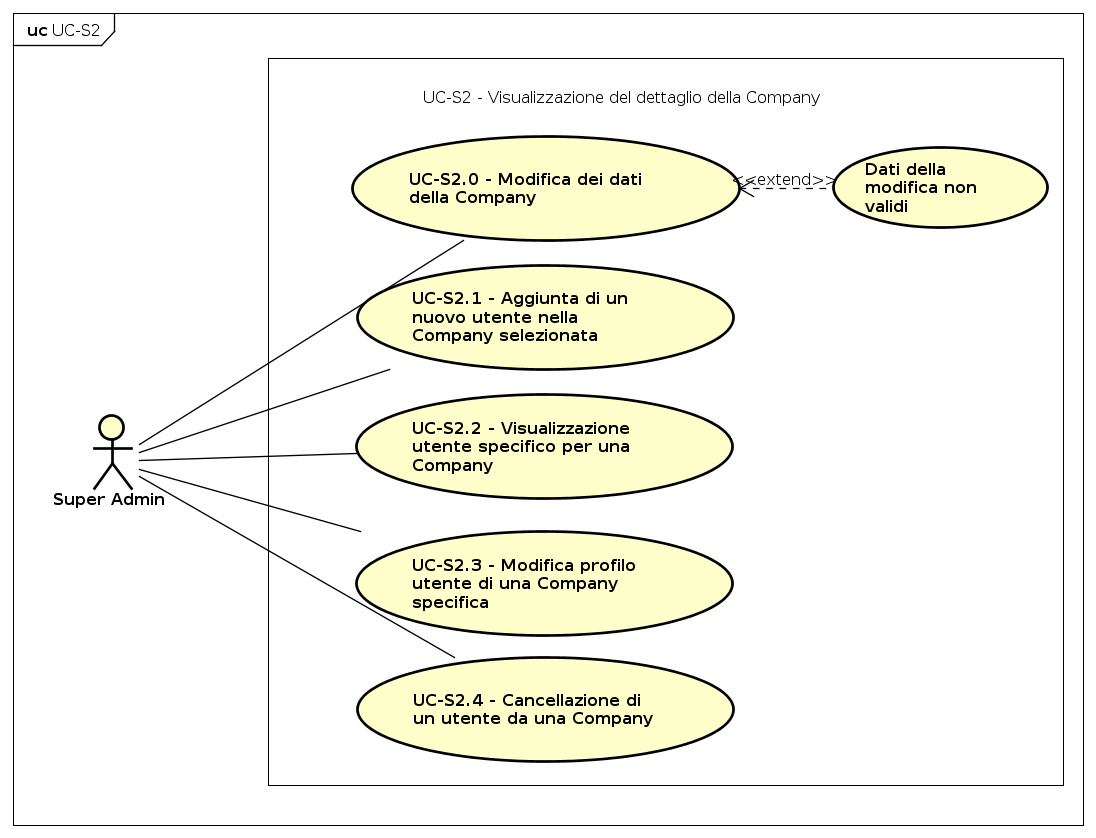
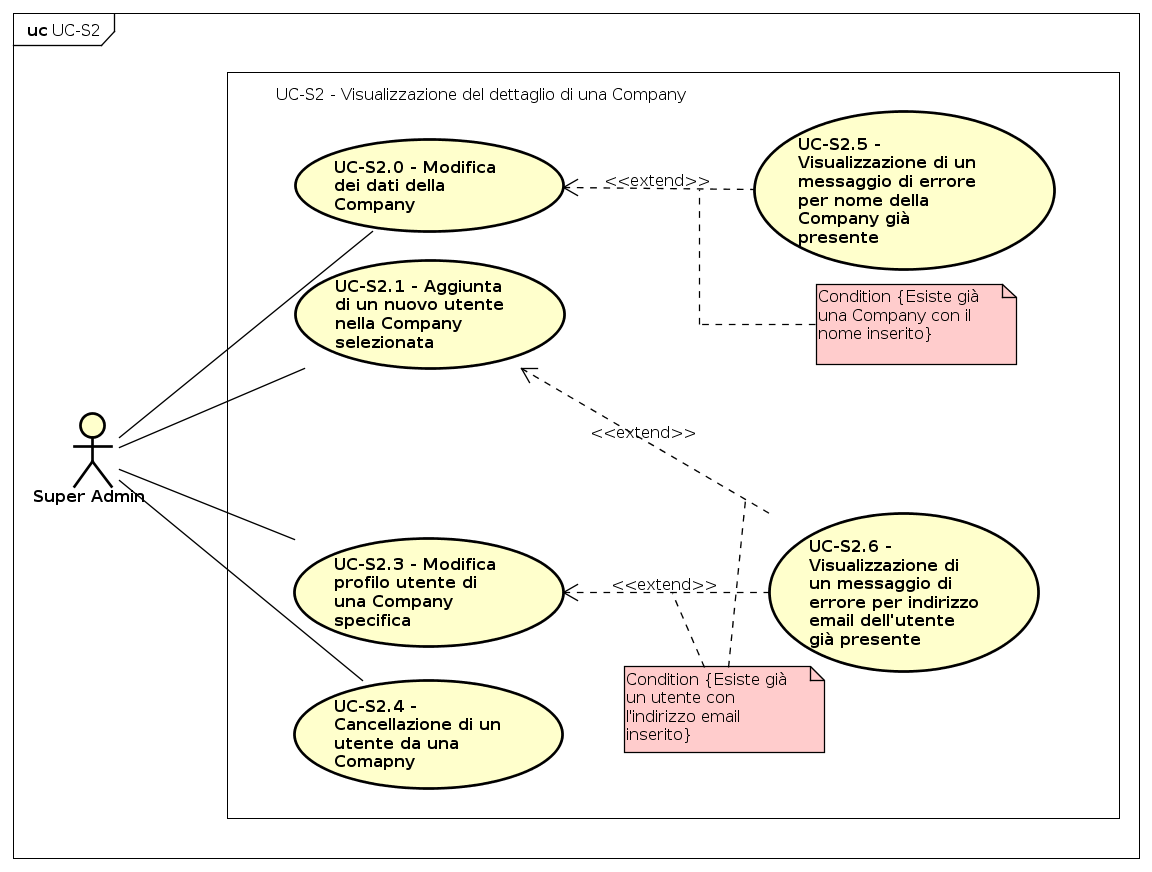
Revolution of Super Admin's UCs There was an inconsistent enumaration, duplicate UCs and logical errors in their suddivision

diff --git a/official/AnalisiDeiRequisiti/res/sections/superadmin.tex b/official/AnalisiDeiRequisiti/res/sections/superadmin.tex
@@ -14,7 +14,7 @@ Di seguito vengono elencati i \glossaryItem{casi} d'uso per il \glossaryItem{Sup
     \begin{figure}[h]
       \begin{center}
         \includegraphics[width=12cm]{res/img/UCSuperadmin/UC-S0.png}
-      \caption{UC-S0 - Gestione \glossaryItem{Company}}
+      \caption{UC-S0 - Interazione tra \glossaryItem{Super-Admin} e sistema}
       \end{center} 
     \end{figure}    
     
@@ -29,19 +29,16 @@ Di seguito vengono elencati i \glossaryItem{casi} d'uso per il \glossaryItem{Sup
         \hline
         
         \textbf{Attori Primari} & \glossaryItem{Super-Admin}.\\ 
-	\textbf{Scopo e descrizione} & Il \glossaryItem{Super-Admin} deve poter gestire le \glossaryItem{Company}.  \\ 
-        \textbf{Precondizioni}  & L'applicazione mostra al \glossaryItem{Super-Admin} la pagina di gestione delle \glossaryItem{Company}.  \\ 
+	\textbf{Scopo e descrizione} & Il \glossaryItem{Super-Admin} deve poter gestire i dati dell'applicazione MaaS.  \\ 
+        \textbf{Precondizioni}  & L'applicazione mostra al \glossaryItem{Super-Admin} la pagina di gestione di MaaS.  \\ 
         
-        \textbf{Postcondizioni} & L'applicazione ha dato la possibilità al \glossaryItem{Super-Admin} di interagire con la pagina di gestione delle \glossaryItem{Company}. \\ 
+        \textbf{Postcondizioni} & L'applicazione ha dato la possibilità al \glossaryItem{Super-Admin} di gestire MaaS. \\ 
         \textbf{Scenario principale} & 1. Il \glossaryItem{Super-Admin} pu\`o creare una nuova \glossaryItem{Company}. (UC-S1) 
         
-        2. Il \glossaryItem{Super-Admin} può visualizzare il dettaglio di una \glossaryItem{Company}. (UC-S2)
+        2. Il \glossaryItem{Super-Admin} può gestire in dettaglio una \glossaryItem{Company} esistente. (UC-S2)
         
-        3. Il \glossaryItem{Super-Admin} pu\`o modificare i dati di una \glossaryItem{Company}. (UC-S3)  \\ 
+        3. Il \glossaryItem{Super-Admin} può gestire gli altri \glossaryItem{Super-Admin} dell'applicazione. (UC-S3)  \\ 
         
-        \textbf{Estensioni} & 1. Fallisce l'inserimento di una nuova \glossaryItem{Company}. (UC-S4)
-        
-        2. Fallisce la modifica dei dati di una \glossaryItem{Company}. (UC-S5) \\
       \end{longtable}
       \egroup
     \end{center}
@@ -209,11 +206,11 @@ Di seguito vengono elencati i \glossaryItem{casi} d'uso per il \glossaryItem{Sup
 
 
 
-    \subsubsection{Visualizzazione in dettaglio di una Company}
+    \subsubsection{Gestione in dettaglio di una Company esistente}
     \begin{figure}[H]
       \begin{center}
         \includegraphics[width=12cm]{res/img/UCSuperadmin/UC-S2.png}
-      \caption{UC-S2 - Visualizzazione dettaglio di una \glossaryItem{Company}}
+      \caption{UC-S2 - Gestione in dettaglio di una \glossaryItem{Company} esistente}
       \end{center} 
     \end{figure}    
     
@@ -224,13 +221,14 @@ Di seguito vengono elencati i \glossaryItem{casi} d'uso per il \glossaryItem{Sup
       \begin{longtable}{  p{3.5cm} | p{8cm} } 
         
         \hline
-        \multicolumn{2}{ | c | }{ \cellcolor[gray]{0.9} \textbf{UC-S2 - Visualizzazione dettaglio di \glossaryItem{Company}}} \\ 
+        \multicolumn{2}{ | c | }{ \cellcolor[gray]{0.9} \textbf{UUC-S2 - Gestione in dettaglio di una \glossaryItem{Company} esistente}} \\ 
         \hline
         
         \textbf{Attori Primari} & \glossaryItem{Super-Admin}\\  
-        \textbf{Precondizioni}  & L'applicazione mette a disposizione la pagina di visualizzazione dei dettagli di una \glossaryItem{Company}.  \\ 
+        \textbf{Scopo e descrizione} & Il \glossaryItem{Super-Admin} visualizza una pagina contenente i dettagli di una Company e può apportare delle modifiche alla Company o ai suoi utenti. \\
+        \textbf{Precondizioni}  & L'applicazione mette a disposizione la pagina di gestione di una \glossaryItem{Company}.  \\ 
         
-        \textbf{Postcondizioni} & L'applicazione ha reindirizzato il \glossaryItem{Super-Admin} alla pagina di visualizzazione della \glossaryItem{Company} selezionata. \\
+        \textbf{Postcondizioni} & L'applicazione ha effettuato le operazioni richeste dal \glossaryItem{Super-Admin}. \\
         
         \textbf{Scenario principale} & 1. Il \glossaryItem{Super-Admin} può modificare i dati della \glossaryItem{Company} (UC-S2.0);  
         
@@ -238,13 +236,15 @@ Di seguito vengono elencati i \glossaryItem{casi} d'uso per il \glossaryItem{Sup
         
         3. Il \glossaryItem{Super-Admin} può visualizzare uno specifico utente della \glossaryItem{Company} (UC-S2.2); 
         
-        4. Il \glossaryItem{Super-Admin} pu\`o modificare i dati di uno specifico utente. (UC-S2.3) \\ 
+        4. Il \glossaryItem{Super-Admin} pu\`o modificare i dati di uno specifico utente. (UC-S2.3)
         
-        \textbf{Estensioni} & 1. Fallimento della modifica dei dati della \glossaryItem{Company};
+        5. Il \glossaryItem{Super-Admin} pu\`o cancellare uno specifico utente. (UC-S2.4) \\ 
         
-        2. Fallimento dell'aggiunta di un nuovo utente;
+        \textbf{Estensioni} & 1. Fallimento della modifica dei dati della \glossaryItem{Company} (UC-S2.5);
         
-        3. Fallimento modifica utente. \\
+        2. Fallimento dell'aggiunta di un nuovo utente (UC-S2.6);
+        
+        3. Fallimento modifica utente (UC-S2.6). \\
       \end{longtable}
       \egroup
     \end{center}
@@ -269,11 +269,12 @@ Di seguito vengono elencati i \glossaryItem{casi} d'uso per il \glossaryItem{Sup
         \hline
         
         \textbf{Attori Primari} & \glossaryItem{Super-Admin}.\\  
+        \textbf{Scopo e descrizione} & Il \glossaryItem{Super-Admin} visualizza una \textit{form} per la modifica dei dati di una Company. \\
         \textbf{Precondizioni}  & L'applicazione mostra il form per la modifica dei dati della \glossaryItem{Company} selezionata.  \\ 
         
         \textbf{Postcondizioni} & Il sistema ha modificato il profilo della \glossaryItem{Company} sulla base dei dati inseriti dal \glossaryItem{Super-Admin}.  \\ 
-       	 \textbf{Scenario principale} & 1. Il \glossaryItem{Super-Admin} può modificare i dati della \glossaryItem{Company}. \\
-	 \textbf{Estensioni} & 1. Fallimento della modifica.
+       	 \textbf{Scenario principale} & 1. Il \glossaryItem{Super-Admin} può modificare il nome della \glossaryItem{Company} (UC-S2.0.0). \\
+	 \textbf{Estensioni} & 1. Fallimento della modifica (UC-S2.5).
       \end{longtable}
       \egroup
     \end{center}
@@ -296,7 +297,7 @@ Di seguito vengono elencati i \glossaryItem{casi} d'uso per il \glossaryItem{Sup
 	
         \textbf{Postcondizioni} & Il sistema ha modificato il nome della \glossaryItem{Company} sulla base del nuovo nome inserito dal \glossaryItem{Super-Admin}.  \\
     	\textbf{Scenario principale} & 1. Il \glossaryItem{Super-Admin} può modificare il nome della \glossaryItem{Company}. \\
-        \textbf{Estensioni} & 1. Fallimento della modifica.
+        \textbf{Estensioni} & 1. Fallimento della modifica (UC-S2.5).
       \end{longtable}
       \egroup
     \end{center}
@@ -324,21 +325,19 @@ Di seguito vengono elencati i \glossaryItem{casi} d'uso per il \glossaryItem{Sup
         \multicolumn{2}{ | c | }{ \cellcolor[gray]{0.9} \textbf{UC-S2.1 - Aggiunta di un nuovo utente nella \glossaryItem{Company} selezionata}} \\ 
         \hline
         
-        \textbf{Attori Primari} & \glossaryItem{Super-Admin}.\\  
+        \textbf{Attori Primari} & \glossaryItem{Super-Admin}.\\ 
+      	\textbf{Scopo e descrizione}  & Il Super-Admin aggiunge un nuovo utente alla \glossaryItem{Company} selezionata.  \\ 
         \textbf{Precondizioni}  & L'applicazione mostra il form per l'aggiunta di un nuovo utente.  \\ 
         
-        \textbf{Postcondizioni} & Il sistema ha aggiunto un nuovo utente associandolo alla \glossaryItem{Company} precedentemente selezionata.  \\ 
+        \textbf{Postcondizioni} & Il sistema ha aggiunto un nuovo utente associandolo alla \glossaryItem{Company} selezionata.  \\ 
 	\textbf{Scenario principale} & 1. Il \glossaryItem{Super-Admin} può aggiungere l'email dell'utente (UC-S2.1.0);
 
         2. Il \glossaryItem{Super-Admin} può aggiungere la password dell'utente (UC-S2.1.1);
 
         3. Il \glossaryItem{Super-Admin} può selezionare il livello di permesso dell'utente (UC-S2.1.2). \\
 
-        \textbf{Estensioni} & 1. Fallimento della modifica dei dati della \glossaryItem{Company};
-
-        2. Fallimento dell'aggiunta di un nuovo utente;
-
-        3. Fallimento della modifica dell'utente. \\     	
+        \textbf{Estensioni} & 1. Fallimento dell'aggiunta di un nuovo utente (UC-S2.6).
+ 	
 
 
 	 \end{longtable}
@@ -359,6 +358,7 @@ Di seguito vengono elencati i \glossaryItem{casi} d'uso per il \glossaryItem{Sup
         \hline
 
         \textbf{Attori Primari} & \glossaryItem{Super-Admin}.\\
+        \textbf{Scopo e descrizione}  & Il Super-Admin inserisce l'indirizzo email del nuovo utente.  \\ 
         \textbf{Precondizioni}  & L'applicazione mostra il campo di testo per l'aggiunta dell'email del nuovo utente.  \\
 
         \textbf{Postcondizioni} & Il sistema ha memorizzato l'email inserita nel campo di testo.  \\
@@ -383,6 +383,7 @@ Di seguito vengono elencati i \glossaryItem{casi} d'uso per il \glossaryItem{Sup
         \hline
 
         \textbf{Attori Primari} & \glossaryItem{Super-Admin}.\\
+        \textbf{Scopo e descrizione}  & Il Super-Admin inserisce la password del nuovo utente.  \\ 
         \textbf{Precondizioni}  & L'applicazione mostra il campo di testo per l'aggiunta della password del nuovo utente.  \\
 
         \textbf{Postcondizioni} & Il sistema ha memorizzato la password inserita nel campo di testo.  \\
@@ -405,6 +406,7 @@ Di seguito vengono elencati i \glossaryItem{casi} d'uso per il \glossaryItem{Sup
         \hline
 
         \textbf{Attori Primari} & \glossaryItem{Super-Admin}.\\
+        \textbf{Scopo e descrizione}  & Il Super-Admin inserisce il livello di permesso del nuovo utente.  \\ 
         \textbf{Precondizioni}  & L'applicazione permette al Super-Admin di selezionare il livello di permesso per l'utente da aggiungere.  \\
 
         \textbf{Postcondizioni} & Il sistema ha memorizzato il livello di permesso selezionato.  \\
@@ -416,13 +418,6 @@ Di seguito vengono elencati i \glossaryItem{casi} d'uso per il \glossaryItem{Sup
 
 
 \subsubsection{Visualizzazione in dettaglio di un utente della Company}
-    \begin{figure}[H]
-      \begin{center}
-        \includegraphics[width=12cm]{res/img/UCSuperadmin/UC-S2.2.png}
-      \caption{UC-S2.2 - Visualizzazione in dettaglio di un utente della \glossaryItem{Company}}
-      \end{center} 
-    \end{figure}    
-    
     %Tabella 
     \begin{center}
       \bgroup
@@ -434,13 +429,11 @@ Di seguito vengono elencati i \glossaryItem{casi} d'uso per il \glossaryItem{Sup
         \hline
         
         \textbf{Attori Primari} & \glossaryItem{Super-Admin}\\  
-        \textbf{Scopo e descrizione} & Il \glossaryItem{Super-Admin} entra nella pagina di visualizzazione di un utente, nella quale pu\`o ispezionarne il profilo; inoltre pu\`o essere reindirizzato alle pagine di modifica ed eliminazione dell'utente in questione. \\
+        \textbf{Scopo e descrizione} & Il \glossaryItem{Super-Admin} entra nella pagina di visualizzazione del profilo di un utente. \\
         \textbf{Precondizioni}  & Il sistema presenta la pagina di visualizzazione in dettaglio di un utente.  \\ 
         
         \textbf{Postcondizioni} & Il sistema ha ricevuto l'input dal \glossaryItem{Super-Admin}.  \\ 
-         \textbf{Scenario principale} & 1. Il \glossaryItem{Super-Admin} pu\`o modificare il profilo dell'utente (UC-S2.3); 
-         
-         2. Il \glossaryItem{Super-Admin} pu\`o eliminare l'utente. (UC-S2.4) \\
+         \textbf{Scenario principale} & 1. Il \glossaryItem{Super-Admin} visualizza il profilo dell'utente. \\
         
      
      \end{longtable}
@@ -477,7 +470,7 @@ Di seguito vengono elencati i \glossaryItem{casi} d'uso per il \glossaryItem{Sup
          2. Il \glossaryItem{Super-Admin} ha la possibilit\`a di modificare la password dell'utente. (UC-S2.3.2) \\
         
         
-         \textbf{Estensioni} & 1. Uscita dalla pagina senza salvataggio delle modifiche.  \\
+         \textbf{Estensioni} & 1. Fallimento della modifica dell'utente (UC-S2.6).  \\
      
      \end{longtable}
       \egroup
@@ -528,6 +521,54 @@ Di seguito vengono elencati i \glossaryItem{casi} d'uso per il \glossaryItem{Sup
      \end{longtable}
       \egroup
     \end{center}
+    
+    \subsubsection{Fallimento della modifica di una Company} 
+        
+        %Tabella 
+        \begin{center}
+          \bgroup
+          \def\arraystretch{1.8}     
+          \begin{longtable}{  p{3.5cm} | p{8cm} } 
+            
+            \hline
+            \multicolumn{2}{ | c | }{ \cellcolor[gray]{0.9} \textbf{UC-S2.5 - Visualizzazione di un messaggio di errore per nome della Company esistente}} \\ 
+            \hline
+            
+            \textbf{Attori Primari} & \glossaryItem{Super-Admin}\\  
+            \textbf{Scopo e descrizione} & Il \glossaryItem{Super-Admin} ha inserito un nome di Company già presente nell'applicazione e il sistema comunica l'errore. \\
+          
+            \textbf{Precondizioni}  & L'applicazione ha ricevuto in input dei dati non validi per la creazione di una \glossaryItem{Company}. \\ 
+            
+            \textbf{Postcondizioni} & Il sistema mostra al \glossaryItem{Super-Admin} un messaggio di errore che comunica l'entità dell'input errato. \\ 
+             \textbf{Scenario principale} & 1. Il \glossaryItem{Super-Admin} visualizza l'errore. \\
+            
+         \end{longtable}
+          \egroup
+        \end{center}
+        
+        \subsubsection{Fallimento della modifica o inserimento di un utente di una Company} 
+                
+                %Tabella 
+                \begin{center}
+                  \bgroup
+                  \def\arraystretch{1.8}     
+                  \begin{longtable}{  p{3.5cm} | p{8cm} } 
+                    
+                    \hline
+                    \multicolumn{2}{ | c | }{ \cellcolor[gray]{0.9} \textbf{UC-S2.5 - Visualizzazione di un messaggio di errore indirizzo email esistente}} \\ 
+                    \hline
+                    
+                    \textbf{Attori Primari} & \glossaryItem{Super-Admin}\\  
+                    \textbf{Scopo e descrizione} & Il \glossaryItem{Super-Admin} ha inserito indirizzo email già presente nell'applicazione e il sistema comunica l'errore. \\
+                  
+                    \textbf{Precondizioni}  & L'applicazione ha ricevuto in input dei dati non validi per l'inserimento o la modifica di un utente. \\ 
+                    
+                    \textbf{Postcondizioni} & Il sistema mostra al \glossaryItem{Super-Admin} un messaggio di errore che comunica l'entità dell'input errato. \\ 
+                     \textbf{Scenario principale} & 1. Il \glossaryItem{Super-Admin} visualizza l'errore. \\
+                    
+                 \end{longtable}
+                  \egroup
+                \end{center}
 
 % \subsubsection{UC-S2.4}
 %    %UC-S2.4: il dettaglio raggiunto è ridondante.
@@ -679,60 +720,31 @@ vedere in un elenco quelli già presenti e vederne le informazioni in dettaglio 
           \egroup
         \end{center}
 
+	\subsubsection{Fallimento dell'aggiunta di un Super Admin} 
+	        
+	        %Tabella 
+	        \begin{center}
+	          \bgroup
+	          \def\arraystretch{1.8}     
+	          \begin{longtable}{  p{3.5cm} | p{8cm} } 
+	            
+	            \hline
+	            \multicolumn{2}{ | c | }{ \cellcolor[gray]{0.9} \textbf{UC-S3.2 - Visualizzazione di un messaggio di errore indirizzo email esistente}} \\ 
+	            \hline
+	            
+	            \textbf{Attori Primari} & \glossaryItem{Super-Admin}\\  
+	            \textbf{Scopo e descrizione} & Il \glossaryItem{Super-Admin} ha inserito un indirizzo email già presente nell'applicazione e il sistema comunica l'errore. \\
+	          
+	            \textbf{Precondizioni}  & L'applicazione ha ricevuto in input dei dati non validi per la creazione di un \glossaryItem{Super-Admin}. \\ 
+	            
+	            \textbf{Postcondizioni} & Il sistema mostra al \glossaryItem{Super-Admin} un messaggio di errore che comunica l'entità dell'input errato. \\ 
+	             \textbf{Scenario principale} & 1. Il \glossaryItem{Super-Admin} visualizza l'errore. \\
+	            
+	         \end{longtable}
+	          \egroup
+	        \end{center}
 
 %##################################################################
-
-\subsubsection{Fallisce la creazione di una Company} 
-    
-    %Tabella 
-    \begin{center}
-      \bgroup
-      \def\arraystretch{1.8}     
-      \begin{longtable}{  p{3.5cm} | p{8cm} } 
-        
-        \hline
-        \multicolumn{2}{ | c | }{ \cellcolor[gray]{0.9} \textbf{UC-S4 - Fallisce la creazione di una \glossaryItem{Company}}} \\ 
-        \hline
-        
-        \textbf{Attori Primari} & \glossaryItem{Super-Admin}\\  
-        \textbf{Scopo e descrizione} & Il \glossaryItem{Super-Admin} ha inserito dei dati errati per la creazione della \glossaryItem{Company}, quindi il sistema comunica l'errore. \\
-      
-        \textbf{Precondizioni}  & L'applicazione ha ricevuto in input dei dati non validi per la creazione di una \glossaryItem{Company}. \\ 
-        
-        \textbf{Postcondizioni} & Il sistema mostra al \glossaryItem{Super-Admin} un messaggio di errore che comunica l'entità dell'input errato. \\ 
-         \textbf{Scenario principale} & 1. Il \glossaryItem{Super-Admin} visualizza l'errore. \\
-        
-     \end{longtable}
-      \egroup
-    \end{center}
-
-
-    \subsubsection{Fallisce la modifica di una Company} 
-    
-    %Tabella 
-    \begin{center}
-      \bgroup
-      \def\arraystretch{1.8}     
-      \begin{longtable}{  p{3.5cm} | p{8cm} } 
-        
-        \hline
-        \multicolumn{2}{ | c | }{ \cellcolor[gray]{0.9} \textbf{UC-S5 - Fallisce la modifica di una \glossaryItem{Company}}} \\ 
-        \hline
-        
-        \textbf{Attori Primari} & \glossaryItem{Super-Admin}\\  
-        \textbf{Scopo e descrizione} & Il \glossaryItem{Super-Admin} ha inserito dei dati errati per la modifica della \glossaryItem{Company} e il sistema comunica l'errore. \\
-      
-        \textbf{Precondizioni}  & L'applicazione ha ricevuto in input dei dati non validi per la modifica di una \glossaryItem{Company}. \\ 
-        
-        \textbf{Postcondizioni} & Il sistema mostra al \glossaryItem{Super-Admin} un messaggio di errore che comunica l'entità dell'input errato. \\ 
-         \textbf{Scenario principale} & 1. Il \glossaryItem{Super-Admin} visualizza l'errore. \\
-        
-     \end{longtable}
-      \egroup
-    \end{center}
-
-
-
 
 
 \newpage
